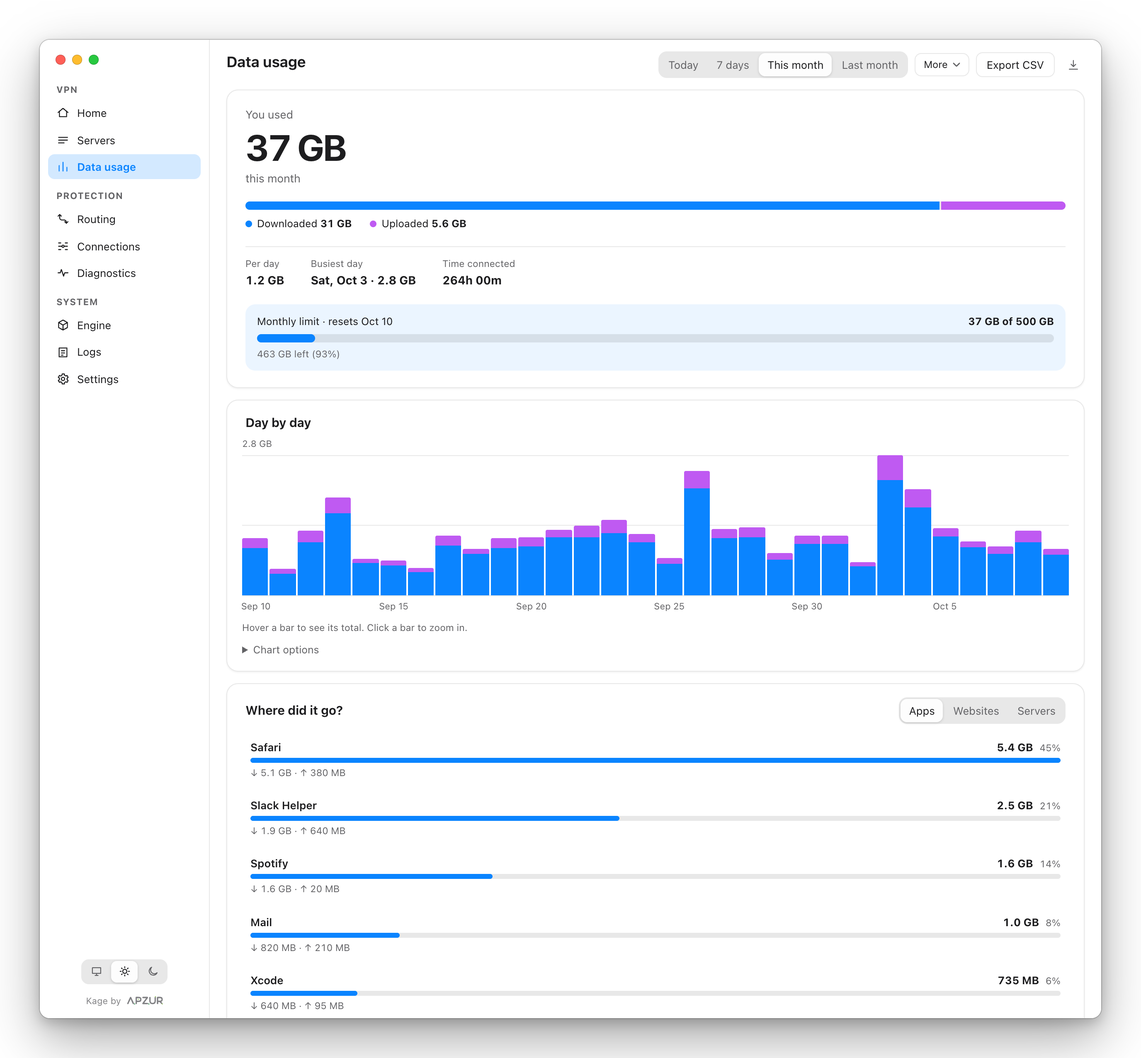
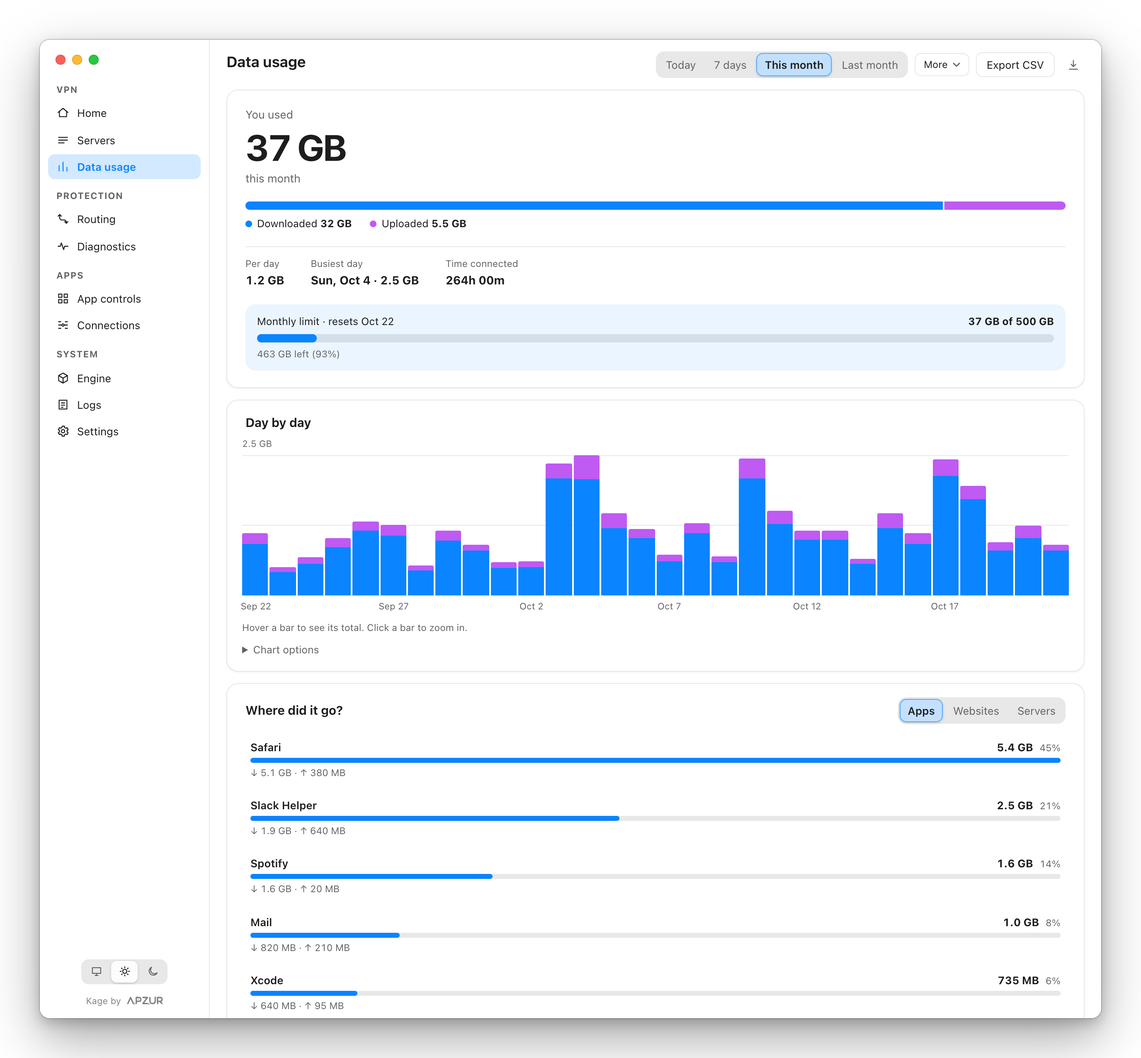
docs: screenshots and docs for App controls, data caps and the newer settings
- Screenshot script: demo caps (one near its limit, one blocked, one offering a block),
  per-app rules, known networks, made-up app icons and growing connection counters; new shots
  apps, app-cap-editor, home-cap-offer, connections-apps, routing-lists, settings-usage and
  tour-apps; every picture is also written to docs-site/assets/images. All 19 regenerated.
- Docs site: new App Controls & Data Caps page (moved out of Routing), Network Settings on
  Routing, connecting by network, the setup guide, overview capabilities, image sizes
- README: Apps feature section, IPv6/FakeIP/DNS details and seven new screenshots
- Corrected: Proxy Only does not change the system proxy, DNS per mode, and the kill switch
  is described as experimental instead of guaranteeing no leaks

diff --git a/docs-site/js/data/user-guide.js b/docs-site/js/data/user-guide.js
@@ -79,13 +79,13 @@ window.DOCS_PAGES["user-guide/connection-modes"] = {
       </p>
       <ul>
         <li>Kage launches sing-box with a mixed SOCKS5/HTTP inbound listener on <code>127.0.0.1:2080</code>. If another program already uses that port, Kage picks the next free one and shows the address on the Home page.</li>
-        <li>It utilizes macOS <code>networksetup</code> to toggle the HTTP and SOCKS proxy state on the active network adapter (e.g. Wi-Fi).</li>
-        <li>When disconnected, Kage automatically turns off proxy settings in System Settings.</li>
+        <li>Kage does not change the proxy settings in System Settings. Point each app (a browser, a terminal tool) at the address yourself, as a SOCKS5 or HTTP proxy.</li>
+        <li>With <strong>Password for the local proxy</strong> on (Settings), apps must log in as <code>kage</code> with the password shown there.</li>
       </ul>
 
       <h2 id="dns-handling">DNS Hijacking & Resolution</h2>
       <p>
-        In TUN mode, sing-box captures port 53 traffic, eliminating DNS poisoning and ISP snooping. All DNS queries are routed directly through your remote outbound server via DNS-over-HTTPS (DoH) or DNS-over-TLS (DoT).
+        In TUN mode, sing-box captures DNS lookups (port 53) from every app and answers them with the provider chosen under <strong>Routing, Network</strong> (Cloudflare by default, over HTTPS), asked through the VPN so your internet provider cannot see or tamper with them. While routing is set to <em>VPN idle</em>, the same provider is asked over your normal connection. With <em>System resolver</em> chosen, lookups use your Mac's own resolver. In Proxy Only mode apps hand site names to the server, which looks them up, so the provider choice is not used. See <a href="#/user-guide/routing-rules">Network Settings</a> for FakeIP and IPv6.
       </p>
     </div>
   `
@@ -194,8 +194,7 @@ window.DOCS_PAGES["user-guide/routing-rules"] = {
     { id: "built-in-rules", label: "Ready-made Lists" },
     { id: "list-sources", label: "List Sources & Downloads" },
     { id: "custom-rules", label: "Your Own Rules" },
-    { id: "app-rules", label: "Choosing by App" },
-    { id: "app-caps", label: "Data Caps for Apps" },
+    { id: "network-settings", label: "Network Settings" },
     { id: "dns-resolution-rules", label: "Route Precedence" }
   ],
   contentHtml: `
@@ -219,6 +218,7 @@ window.DOCS_PAGES["user-guide/routing-rules"] = {
         <li><strong>Websites &amp; services:</strong> advertising and trackers, local and private networks, Google, YouTube, Apple, Microsoft, GitHub, OpenAI, Anthropic, Netflix, Disney+, Spotify, Telegram, WhatsApp, Discord, X, Facebook, TikTok, Steam, PayPal, Amazon and more. Each one suggests a sensible action, such as <em>Block</em> for advertising.</li>
         <li><strong>Other&hellip;</strong> accepts any list name the chosen source publishes.</li>
       </ul>
+      <figure class="shot"><img src="assets/images/routing-lists.png" alt="The Ready-made lists tab with three lists and their download state" decoding="async"></figure>
       <p>
         Each list shows whether it is <strong>Ready</strong> or <strong>Not downloaded</strong>. A list that could not be downloaded is left out and the connection still starts, so a blocked download never stops you from connecting.
       </p>
@@ -251,25 +251,75 @@ window.DOCS_PAGES["user-guide/routing-rules"] = {
         You can also add an app rule from <strong>Connections &rarr; Apps</strong>: click an app and choose <strong>Through VPN</strong>, <strong>Direct</strong> or <strong>Block</strong>. If routing was in Global or Direct mode, it switches to Rules mode with the same default for everything else, so only that app changes. The VPN reconnects to apply it.
       </p>
 
+      <p>
+        Choices for whole apps (VPN, Direct or Block) and their data caps have their own page: see <a href="#/user-guide/app-controls">App Controls &amp; Data Caps</a>.
+      </p>
+
+      <h2 id="network-settings">Network Settings</h2>
+      <p>
+        <strong>Network</strong>, at the bottom of Routing, applies in every routing mode:
+      </p>
+      <ul>
+        <li><strong>Keep my local network reachable:</strong> printers, routers and other devices on your home or office network are reached directly, not through the VPN.</li>
+        <li><strong>Allow IPv6</strong> (off for new installs): turn it on only if your server has IPv6. While it is off the tunnel carries IPv4 only and IPv6 connections are refused at once, so browsers fall back to IPv4 straight away and sites do not half-load. On a network with its own IPv6, that IPv6 traffic goes outside the VPN while the switch is off.</li>
+        <li><strong>DNS provider:</strong> Cloudflare, Google, Quad9, a custom server, or the system resolver. A custom server can be a host (<code>dns.example.com</code>, asked over HTTPS) or a link such as <code>https://dns.nextdns.io/your-id</code>, <code>tls://</code>, <code>quic://</code>, <code>udp://</code> or <code>tcp://</code>; an entry that cannot work is refused when you save. Lookups go through the VPN, except while the VPN is idle, when they go to the same provider over your normal connection. In Proxy Only mode the choice is not used: apps hand site names to the server, which looks them up.</li>
+        <li><strong>Route by site name (FakeIP):</strong> Full System mode only. Apps get made-up addresses that the tunnel maps back to the site name, so domain rules stay exact and your local resolver's answers do not matter. The made-up addresses expire after a second, so nothing breaks after you disconnect. Turn it off if an app that remembers addresses misbehaves.</li>
+      </ul>
+
+      <h2 id="dns-resolution-rules">Route Precedence</h2>
+      <p>
+        Your rules are evaluated from top to bottom and the first one that matches decides. Ready-made lists come after your rules. Anything still unmatched follows <strong>Everything else</strong>.
+      </p>
+    </div>
+  `
+};
+
+window.DOCS_PAGES["user-guide/app-controls"] = {
+  category: "User Guide",
+  title: "App Controls & Data Caps",
+  featureBadge: "Apps",
+  lead: "Choose for each installed app whether it uses the VPN, goes direct or is blocked, and give any app its own daily, weekly or monthly data limit.",
+  heroImage: {
+    src: "assets/images/apps.png",
+    alt: "The App controls page listing installed apps with VPN, Direct and Block buttons and data cap bars",
+    title: "App Controls"
+  },
+  toc: [
+    { id: "app-rules", label: "Choosing by App" },
+    { id: "app-caps", label: "Data Caps for Apps" },
+    { id: "from-connections", label: "From the Connections Page" },
+    { id: "rules-mode", label: "How It Fits with Routing" }
+  ],
+  contentHtml: `
+    <div class="docs-prose">
       <h2 id="app-rules">Choosing by App</h2>
       <p>
         The <strong>App controls</strong> page (in the sidebar's <strong>Apps</strong> section, with Connections) lists the apps installed on your Mac. Next to each one, choose <em>VPN</em>, <em>Direct</em> or <em>Block</em>, or press the reset arrow to follow the default again. A bright button is a rule you made; a quiet outline is what the app does by default, because it has no rule. A bar under the app's name shows its data cap when it has one. An app you have not chosen for follows the default set under <strong>Routing</strong>, <strong>Everything else</strong>. Blocked apps are listed above the search box with an <em>Unblock</em> button, and each row shows how much data the app used through the VPN this billing period when app tracking is on. Programs without an app icon, and rules for apps you have since removed, appear at the bottom and are edited under <strong>Your rules</strong>. This app and its engine cannot be blocked, because the VPN itself needs the network. Changes apply when you press <strong>Save changes</strong>.
       </p>
 
+      <figure class="shot"><img src="assets/images/app-cap-editor.png" alt="The data cap editor open under Slack, with limit, period and what happens at the limit" decoding="async"></figure>
+
       <h2 id="app-caps">Data Caps for Apps</h2>
       <p>
         Open <strong>App controls</strong> in the sidebar and press <strong>Set cap</strong> next to an app (or click anywhere on its row) to give it its own data limit. To change or remove a cap later, press <strong>Edit cap</strong> (or click the bar under the app's name): the editor has <strong>Save cap</strong> and <strong>Remove cap</strong>. Choose the size (in MB or GB), how often it starts over (<em>Day</em>, <em>Week</em> or <em>Month</em>, always from midnight, from Monday for weeks and the 1st for months) and what happens at the limit: <em>Tell me</em> or <em>Offer to block</em>. You get a notification at 80% and again at 100%.
       </p>
+      <figure class="shot"><img src="assets/images/home-cap-offer.png" alt="Home with a card saying Discord reached its monthly data cap, with Block now and Not now" decoding="async"></figure>
       <p>
         With <em>Offer to block</em>, a card on Home and the app's row show <strong>Block now</strong> and <strong>Not now</strong> at 100%. Block now stops the app using the network until the period ends and reconnects the VPN once; it is lifted by itself when the period starts over (with a notification), or any time with <strong>Unblock</strong>. Nothing is blocked unless you press Block now.
       </p>
       <p>
-        Caps count only what the app sends through the VPN, taken from the connection list every few seconds, so figures are approximate: very short connections can be missed. Counting needs <em>app usage</em> to be on (Settings, Usage); the cap editor offers to turn it on. Clearing your usage history does not change a cap. Kage VPN and its engine cannot be capped.
+        Caps count only what the app sends through the VPN, taken from the connection list every few seconds, so figures are approximate: very short connections can be missed. Counting needs <em>app usage</em> to be on (Settings, Usage); the cap editor offers to turn it on. Clearing your usage history does not change a cap. Kage and its engine cannot be capped.
       </p>
 
-      <h2 id="dns-resolution-rules">Route Precedence</h2>
+      <h2 id="from-connections">From the Connections Page</h2>
       <p>
-        Your rules are evaluated from top to bottom and the first one that matches decides. Ready-made lists come after your rules. Anything still unmatched follows <strong>Everything else</strong>.
+        <strong>Connections</strong>, in the same sidebar section, opens on its <strong>Apps</strong> view: every app sending or receiving data right now, with live upload and download speeds, what it moved since you opened the page, and a bar showing how busy it is. The <strong>Route</strong> button on each row shows the app's current choice and sets it to <em>Through VPN</em>, <em>Direct</em> or <em>Block</em> in one click; the VPN reconnects to apply it. The <strong>Connections</strong> view lists every open connection with its destination, rule and traffic.
+      </p>
+      <figure class="shot"><img src="assets/images/connections-apps.png" alt="The Connections page Apps view with live speeds and a Route button on each app" decoding="async"></figure>
+
+      <h2 id="rules-mode">How It Fits with Routing</h2>
+      <p>
+        A choice for one app is a routing rule, placed at the top of <strong>Your rules</strong> so it wins over broader ones. Per-app choices only work in <strong>Choose by rules</strong> mode, so choosing one while routing is set to <em>Everything through the VPN</em> or <em>VPN idle</em> switches to rules mode with the same default for everything else: only that app changes. If you had saved rules or lists earlier that the other mode ignored, they start applying too, and a notice says how many so you can check them under Routing.
       </p>
     </div>
   `
@@ -293,6 +343,7 @@ window.DOCS_PAGES["user-guide/kill-switch"] = {
     { id: "watchdog-monitoring", label: "Process Watchdog Loop" },
     { id: "connection-health", label: "Connection Health Monitor" },
     { id: "crash-log", label: "When the VPN Stops Unexpectedly" },
+    { id: "by-network", label: "Connect or Disconnect by Network" },
     { id: "manual-recovery", label: "Emergency Network Recovery" }
   ],
   contentHtml: `
@@ -360,6 +411,11 @@ window.DOCS_PAGES["user-guide/kill-switch"] = {
       <h2 id="crash-log">When the VPN Stops Unexpectedly</h2>
       <p>
         If sing-box exits on its own, or the tunnel stops answering while sing-box is still running, Kage shows a notification with the reason (for example the exit status and the last error), a red banner on the home screen, and writes an entry to <code>crashes.log</code> in the data folder. Open it in the app from the banner's <strong>View crash log</strong> button or the <strong>Crash log</strong> button on the Logs page. It has Copy and Clear buttons.
+      </p>
+
+      <h2 id="by-network">Connect or Disconnect by Network</h2>
+      <p>
+        <strong>Settings, Networks</strong> can connect or disconnect the VPN by itself when your Mac joins a network you know, for example connect on café Wi-Fi and do nothing at home. Each network is recognised by its router's hardware address, so no location permission is needed. The first time you join a network the app asks once; afterwards choose <em>Connect</em>, <em>Disconnect</em> or <em>Do nothing</em> for it, rename it or forget it. Connecting or disconnecting by hand wins until the network changes.
       </p>
 
       <h2 id="manual-recovery">Emergency Network Recovery</h2>
@@ -470,6 +526,7 @@ window.DOCS_PAGES["user-guide/data-usage"] = {
       <p>
         The data limit and tracking options live in <strong>Settings</strong>, under <em>Data usage</em> and <em>Usage privacy</em>:
       </p>
+      <figure class="shot"><img src="assets/images/settings-usage.png" alt="Settings with the monthly data limit and usage privacy options" decoding="async"></figure>
       <ul>
         <li><strong>Monthly data limit</strong>, the day the month starts, and what happens when the limit is reached (notify, or notify and disconnect).</li>
         <li><strong>Track apps</strong> and <strong>Track websites</strong> (off by default), <strong>Pause counting</strong>, and how long app and website history is kept.</li>

diff --git a/docs-site/js/data/getting-started.js b/docs-site/js/data/getting-started.js
@@ -60,9 +60,19 @@ window.DOCS_PAGES["getting-started/overview"] = {
               <td>Choose between 100% whole-system encryption or selective proxying.</td>
             </tr>
             <tr>
-              <td><strong>macOS pfctl Kill Switch</strong></td>
+              <td><strong>macOS pfctl Kill Switch</strong> (experimental)</td>
               <td>Kernel packet filter anchor integration</td>
-              <td>Guarantees 0-byte packet leaks if the proxy tunnel unexpectedly drops.</td>
+              <td>Blocks other traffic while the tunnel is down or reconnecting. Tested against a stand-in firewall so far; try it on your Mac before relying on it.</td>
+            </tr>
+            <tr>
+              <td><strong>Routing Rules</strong></td>
+              <td>Sites, IP ranges, apps, and ready-made country and service lists</td>
+              <td>Send only what you choose through the VPN, let the rest go direct, or block it.</td>
+            </tr>
+            <tr>
+              <td><strong>App Controls &amp; Data Caps</strong></td>
+              <td>VPN, Direct or Block per installed app; daily, weekly or monthly limits</td>
+              <td>Split tunneling by app without typing executable names, and a warning (or a block, if you choose) before an app eats your data plan.</td>
             </tr>
             <tr>
               <td><strong>Memory Footprint</strong></td>
@@ -243,6 +253,7 @@ window.DOCS_PAGES["getting-started/first-run"] = {
   toc: [
     { id: "interface-layout", label: "Dual Interface Architecture" },
     { id: "menu-bar-controller", label: "Menu Bar Quick Popover" },
+    { id: "setup-guide", label: "The Setup Guide" },
     { id: "main-dashboard", label: "Full Dashboard Window" },
     { id: "permission-setup", label: "Initial Permission Setup" }
   ],
@@ -266,6 +277,12 @@ window.DOCS_PAGES["getting-started/first-run"] = {
         <li><strong>Menu bar menu:</strong> Right-click the icon for a status line, Connect, Ping Server and Quit.</li>
       </ul>
 
+      <h2 id="setup-guide">The Setup Guide</h2>
+      <p>
+        On first launch a short setup guide gets the engine, adds your first server and chooses a connection mode, then introduces the mascot, the menu bar popover, data usage, routing rules, per-app controls and data caps for apps. Each of the last steps shows the real controls you will find in the app. Replay it any time from <strong>Settings, Help, Run setup again</strong>.
+      </p>
+      <figure class="shot"><img src="assets/images/tour-apps.png" alt="The setup guide step about controlling each app, showing VPN, Direct and Block choices" decoding="async"></figure>
+
       <h2 id="main-dashboard">Full Dashboard Window</h2>
       <p>
         Clicking <strong>Open Dashboard</strong> or selecting it from the menu bar launches the complete management console:
@@ -273,10 +290,12 @@ window.DOCS_PAGES["getting-started/first-run"] = {
       <ul>
         <li><strong>Servers:</strong> Comprehensive node organizer, latency pings, and subscription manager.</li>
         <li><strong>Routing:</strong> Rule-based traffic routing editor with direct GeoIP / GeoSite bypasses.</li>
+        <li><strong>App controls:</strong> VPN, Direct or Block for each installed app, and data caps for apps. See <a href="#/user-guide/app-controls">App Controls &amp; Data Caps</a>.</li>
         <li><strong>Connections:</strong> An <em>Apps</em> view showing which apps are sending and receiving data right now (with live speeds), and a <em>Connections</em> view with every open socket, powered by sing-box's Clash API.</li>
         <li><strong>Diagnostics:</strong> One-click comparison of the tunnel with your normal route, DNS resolver check and latency graphs.</li>
         <li><strong>Data usage:</strong> This month's total, a day-by-day chart and what used the data.</li>
-        <li><strong>Settings:</strong> Kill switch, reliability, data limit, usage privacy and app updates.</li>
+        <li><strong>Settings:</strong> Kill switch, reliability, connecting by network, logs, the monthly data limit, usage privacy, backup and app updates.</li>
+        <li><strong>Engine</strong> and <strong>Logs:</strong> sing-box versions and update policy, and the engine's log with filters and hints.</li>
       </ul>
 
       <h2 id="permission-setup">Initial Permission Authorization</h2>

diff --git a/docs-site/js/app.js b/docs-site/js/app.js
@@ -6,11 +6,15 @@
   'use strict';
 
   var DEFAULT_SLUG = 'getting-started/overview';
+  // Width and height of each picture (scaled to 1600 wide), so the page does not jump as they load.
+  // Keep in step with scripts/screenshots/capture.mjs.
   var IMAGE_SIZES = {
-    'home.png': [1600, 925], 'home-dark.png': [1600, 1075], 'welcome.png': [1600, 1075],
-    'servers.png': [1600, 1000], 'connections.png': [1600, 1000], 'logs.png': [1600, 1000],
-    'routing.png': [1600, 1125], 'diagnostics.png': [1600, 1125], 'engine.png': [1600, 1125],
-    'settings.png': [1600, 1375], 'usage.png': [1600, 1475], 'menu-bar-popover.png': [640, 920]
+    'home.png': [1600, 972], 'home-dark.png': [1600, 1111], 'home-cap-offer.png': [1600, 1111], 'welcome.png': [1600, 1111],
+    'tour-apps.png': [1600, 1111], 'servers.png': [1600, 1041], 'connections.png': [1600, 1041],
+    'connections-apps.png': [1600, 1041], 'logs.png': [1600, 1041], 'routing.png': [1600, 1158],
+    'routing-lists.png': [1600, 1274], 'apps.png': [1600, 1158], 'app-cap-editor.png': [1600, 1158],
+    'diagnostics.png': [1600, 1158], 'engine.png': [1600, 1158], 'settings.png': [1600, 1390],
+    'settings-usage.png': [1600, 1390], 'usage.png': [1600, 1483], 'menu-bar-popover.png': [640, 1100]
   };
 
   var nav = window.DOCS_NAVIGATION || [];
@@ -134,6 +138,11 @@
         (next ? '<a class="pagination-card next" href="#/' + esc(next.slug) + '"><span class="pagination-label">Next</span><span class="pagination-title">' + esc(next.title) + '</span></a>' : '') + '</nav>';
     }
     article.innerHTML = html;
+    // Pictures placed inside a page's text get the same sizes as the one at the top.
+    article.querySelectorAll('.shot img:not([width])').forEach(function (img) {
+      var size = IMAGE_SIZES[img.getAttribute('src').split('/').pop()];
+      if (size) { img.setAttribute('width', size[0]); img.setAttribute('height', size[1]); }
+    });
 
     renderToc(toc);
     initSpy();

diff --git a/docs-site/js/data/changelog.js b/docs-site/js/data/changelog.js
@@ -47,6 +47,7 @@ window.DOCS_PAGES["changelog/changelog"] = {
         <li><strong>Fixed:</strong> <strong>Settings:</strong> a switch that could not be saved (for example a cancelled password prompt for the root service) flips back instead of showing a change that did not happen.</li>
         <li><strong>Fixed:</strong> <strong>Data limit:</strong> changing a usage setting no longer brings back a data warning that was already shown.</li>
         <li><strong>Fixed:</strong> <strong>Apps:</strong> after you save, the page shows exactly what was stored, including blocks set by a data cap, instead of the copy it sent.</li>
+        <li><strong>Docs:</strong> a new <strong>App Controls &amp; Data Caps</strong> page, sections on network settings (IPv6, DNS, FakeIP), connecting by network and the setup guide, and new screenshots of App controls, data caps, the Connections Apps view, ready-made lists and the data settings. Corrected: Proxy Only mode does not change the macOS system proxy settings (the docs said it did), and DNS is described as it really works in each mode.</li>
       </ul>
 
       <h2 id="oct-20">20 October 2026: version 0.2.0</h2>

diff --git a/docs-site/js/data/navigation.js b/docs-site/js/data/navigation.js
@@ -55,6 +55,12 @@ window.DOCS_NAVIGATION = [
         description: "Smart traffic splitting, GeoIP/GeoSite bypass, and custom domain rules."
       },
       {
+        slug: "user-guide/app-controls",
+        title: "App Controls & Data Caps",
+        badge: "Apps",
+        description: "VPN, Direct or Block for each installed app, and daily, weekly or monthly data caps."
+      },
+      {
         slug: "user-guide/kill-switch",
         title: "Kill Switch & Connection Health",
         badge: "Safety",

diff --git a/README.md b/README.md
@@ -96,7 +96,7 @@ Then open the app normally. You only need to do this once per downloaded version
 
 ### Servers
 
-- **Import** from pasted links, text files, **Clash or sing-box configuration files**, or **subscription URLs** (share-link, Clash and sing-box lists), with scheduled refresh and the data and expiry information your provider reports. You are told once when 90% of the plan's data is used and when it runs out.
+- **Import** from pasted links, text files, **Clash or sing-box configuration files**, or **subscription URLs** (share-link, Clash and sing-box lists), with scheduled refresh and the data and expiry information your provider reports. You are told once when 90% of the plan's data is used and when it runs out, and 7 days, 3 days and 1 day before the plan expires.
 - **Subscription options** for providers that are picky: choose which client the app asks as (v2rayN, sing-box, Clash Meta or your own), and send a device ID for providers that limit how many devices may use a subscription. Errors such as a reached device limit or an expired link say what to do.
 - **Search, group, favorite and sort** servers. Duplicates are detected and skipped.
 - **Latency tests** for every server, with a small history graph for each, and one button to remove every server the last test could not reach.
@@ -109,10 +109,16 @@ Then open the app normally. You only need to do this once per downloaded version
 - **Auto-reconnect** when the tunnel drops, and a **restart a dead tunnel** setting (on by default for new installs).
 - **Crash log.** If sing-box or the tunnel stops on its own you get a notification with the reason, and an entry in a crash log you can open inside the app.
 - **Kill switch** (experimental, TUN mode, off by default). It blocks traffic if the tunnel stops, and keeps blocking through restarts and failed reconnects until the new tunnel is verified. Home says when it is blocking and has an **Unblock internet** button. It allows IPv6 neighbour discovery and your server's addresses (looked up again every few minutes), and lets DNS through for up to 20 seconds while a reconnect starts. It has been tested against a stub firewall only, not yet on the real one.
+- **Connect or disconnect by network.** Remember the networks you use and choose for each one whether the VPN connects, disconnects or does nothing when you join it. Networks are recognised by their router, so no location permission is needed.
 - **Local proxy password** (optional). Protect the proxy on `127.0.0.1` with a login so other users on your Mac cannot use your tunnel.
-- **Routing rules** with Global, Rules and Direct modes. Match by domain, domain suffix, keyword, IP range, process name, or an **app picked from your installed apps** (split tunneling: the rule covers the app's helper processes too), send traffic through the VPN, direct, or block it, bypass your local network, and choose your DNS resolver. A built-in tester shows which rule a domain would hit.
+- **Routing rules** with Global, Rules and Direct modes. Match by domain, domain suffix, keyword, IP range, process name, or an **app picked from your installed apps** (split tunneling: the rule covers the app's helper processes too), send traffic through the VPN, direct, or block it, bypass your local network, and choose your DNS resolver (Cloudflare, Google, Quad9, the system resolver, or your own DoH, DoT, DoQ or plain server). An **Allow IPv6** switch (off for new installs) keeps IPv6 out of the tunnel for servers without it, and optional **FakeIP** routes Full System traffic by site name. A built-in tester shows which rule a domain would hit.
 - **Ready-made lists** picked by name (countries, ad networks, Google, Netflix, Telegram and dozens more) instead of codes, kept up to date for you. Choose where they come from (SagerNet, MetaCubeX, v2rayN, Loyalsoldier, runetfreedom, or your own address), and download, update or delete them from the app. Downloads go through the VPN first when connected, so a network that blocks GitHub does not matter.
-- **Live connections** with an **Apps** view (which app is sending and receiving data right now, with live speeds, and a one-click choice to always send it through the VPN, directly or not at all) and a table of every open connection, its app, destination, route and traffic, with the option to close any of them.
+- **Live connections** with an **Apps** view (which app is sending and receiving data right now, with live speeds, and a **Route** button to always send it through the VPN, directly or not at all) and a table of every open connection, its app, destination, route and traffic, with the option to close any of them.
+
+### Apps
+
+- **App controls.** A page listing the apps installed on your Mac, each with its icon and *VPN*, *Direct* and *Block* buttons (split tunneling without typing executable names). Apps without a choice follow your routing default, and blocked apps are gathered at the top with an Unblock button. The app itself and its engine cannot be blocked.
+- **Data caps for apps.** Give any app a daily, weekly or monthly limit. You are told at 80% and 100%, and can choose to be offered **Block now** at the limit; Home shows the offer as a card. A block lifts itself when the period starts over. Counting is approximate and covers traffic through the VPN.
 
 ### Insight
 
@@ -148,7 +154,11 @@ All screenshots use made-up demo data: example hosts and documentation-range IP 
 | <img src="docs/images/usage.png" alt="Data usage" width="430"><br>**Data usage**: totals, trend and per-app breakdown | <img src="docs/images/diagnostics.png" alt="Diagnostics and speed test" width="430"><br>**Diagnostics**: leak check and speed test |
 | <img src="docs/images/routing.png" alt="Routing" width="430"><br>**Routing**: rules, ready-made lists and DNS | <img src="docs/images/connections.png" alt="Live connections" width="430"><br>**Connections**: every open connection, live |
 | <img src="docs/images/engine.png" alt="Engine manager" width="430"><br>**Engine**: versions, channels and update policy | <img src="docs/images/logs.png" alt="Logs" width="430"><br>**Logs**: filters, search and error hints |
-| <img src="docs/images/settings.png" alt="Settings" width="430"><br>**Settings**: reliability, updates and shortcuts | <img src="docs/images/welcome.png" alt="Welcome tour" width="430"><br>**Welcome tour**: first-run setup |
+| <img src="docs/images/settings.png" alt="Settings" width="430"><br>**Settings**: reliability, kill switch and networks | <img src="docs/images/welcome.png" alt="Welcome tour" width="430"><br>**Welcome tour**: first-run setup |
+| <img src="docs/images/apps.png" alt="App controls" width="430"><br>**App controls**: VPN, Direct or Block for each app | <img src="docs/images/app-cap-editor.png" alt="Data cap editor" width="430"><br>**Data caps**: a daily, weekly or monthly limit per app |
+| <img src="docs/images/home-cap-offer.png" alt="Home with a data cap offer" width="430"><br>**Block now**: offered when an app reaches its cap | <img src="docs/images/connections-apps.png" alt="Connections, Apps view" width="430"><br>**Connections, Apps**: live speeds and a Route button |
+| <img src="docs/images/routing-lists.png" alt="Ready-made lists" width="430"><br>**Ready-made lists**: countries and services by name | <img src="docs/images/settings-usage.png" alt="Data limit and usage privacy settings" width="430"><br>**Data limit and privacy**: what is recorded and kept |
+| <img src="docs/images/tour-apps.png" alt="Setup guide, per-app step" width="430"><br>**Setup guide**: now covers rules, apps and data caps | |
 
 <div align="center">
 <img src="docs/images/menu-bar-popover.png" alt="Menu bar popover" width="240"><br>

diff --git a/aidlc-docs/audit.md b/aidlc-docs/audit.md
@@ -295,3 +295,11 @@
 **Context**: Documentation
 
 ---
+
+## Screenshots and docs for the new pages
+**Timestamp**: 2026-10-21T14:00:00Z
+**User Input**: "dow we have the new pages images and things also , update the image s and the genaration script to get the new pages fetures and tebas also and update the docs with new ofetures pages"
+**AI Response**: Extended scripts/screenshots (demo caps, a cap-blocked app, per-app rules, known networks, made-up app icons, connection counters that grow so live speeds show; new shots apps, app-cap-editor, home-cap-offer, connections-apps, routing-lists, settings-usage, tour-apps; every picture also copied to docs-site/assets/images). Regenerated all 19 pictures and reviewed them. Docs: new user-guide page App Controls & Data Caps (moved from Routing), Network Settings on Routing, connect by network, the setup guide, overview capabilities, README features and screenshot table, image sizes in app.js. Corrected two wrong statements (Proxy Only does not set the system proxy; DNS per mode) and toned down the kill switch claim on the overview.
+**Context**: Documentation
+
+---
